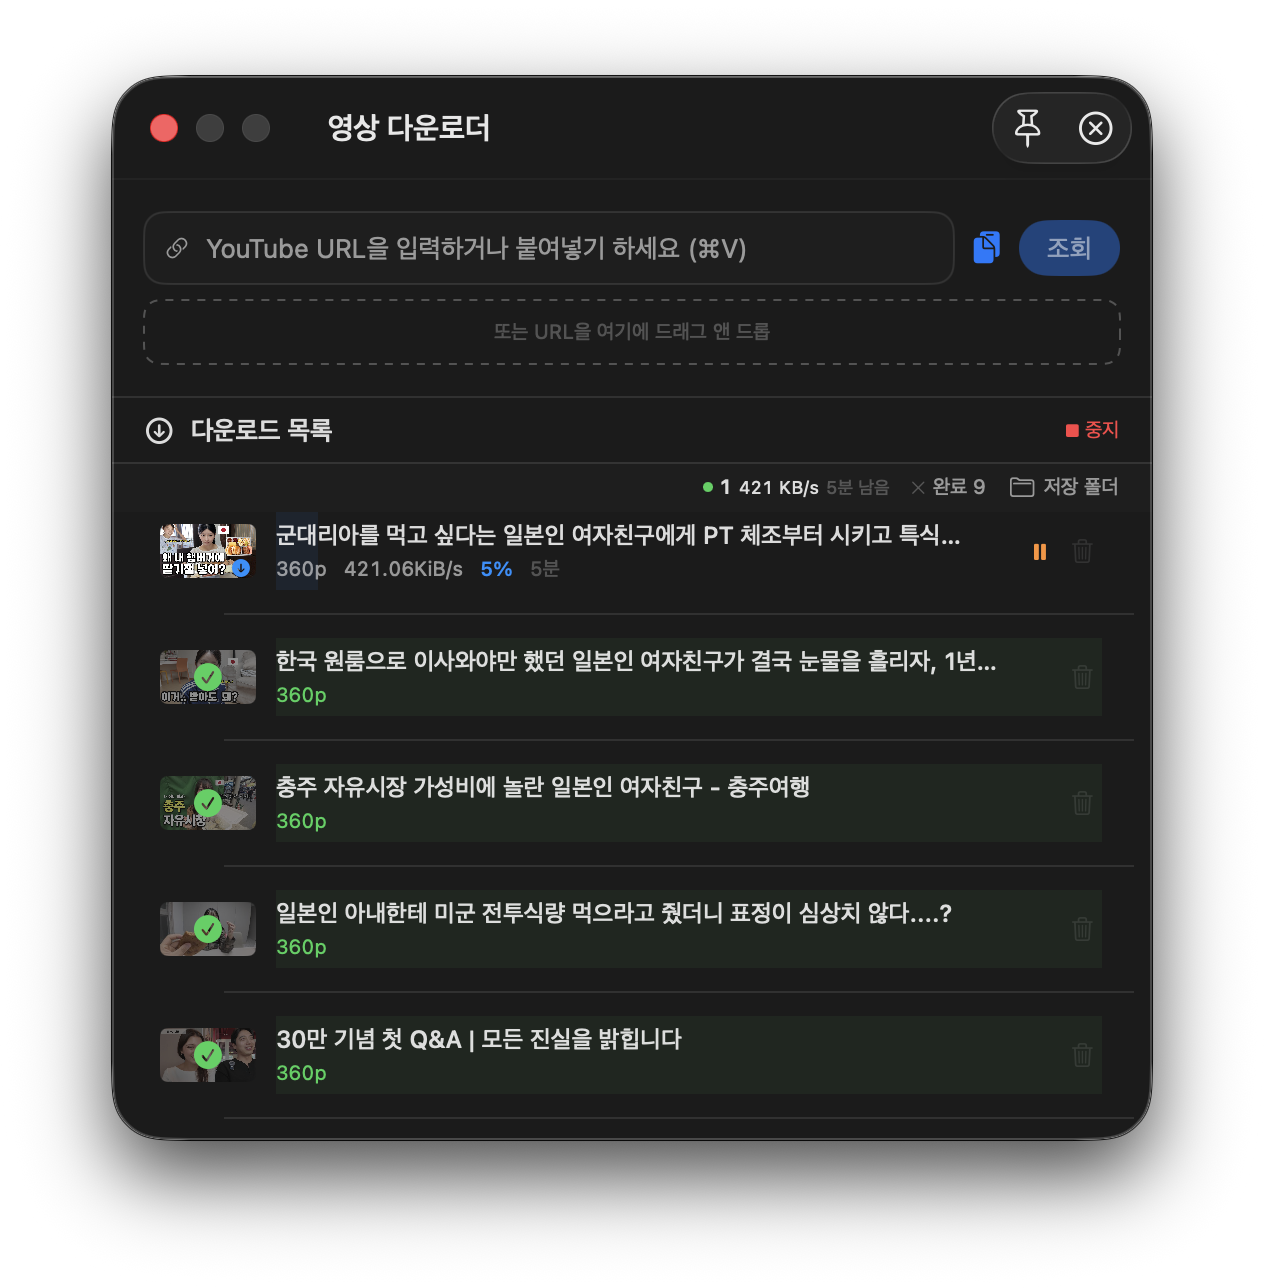
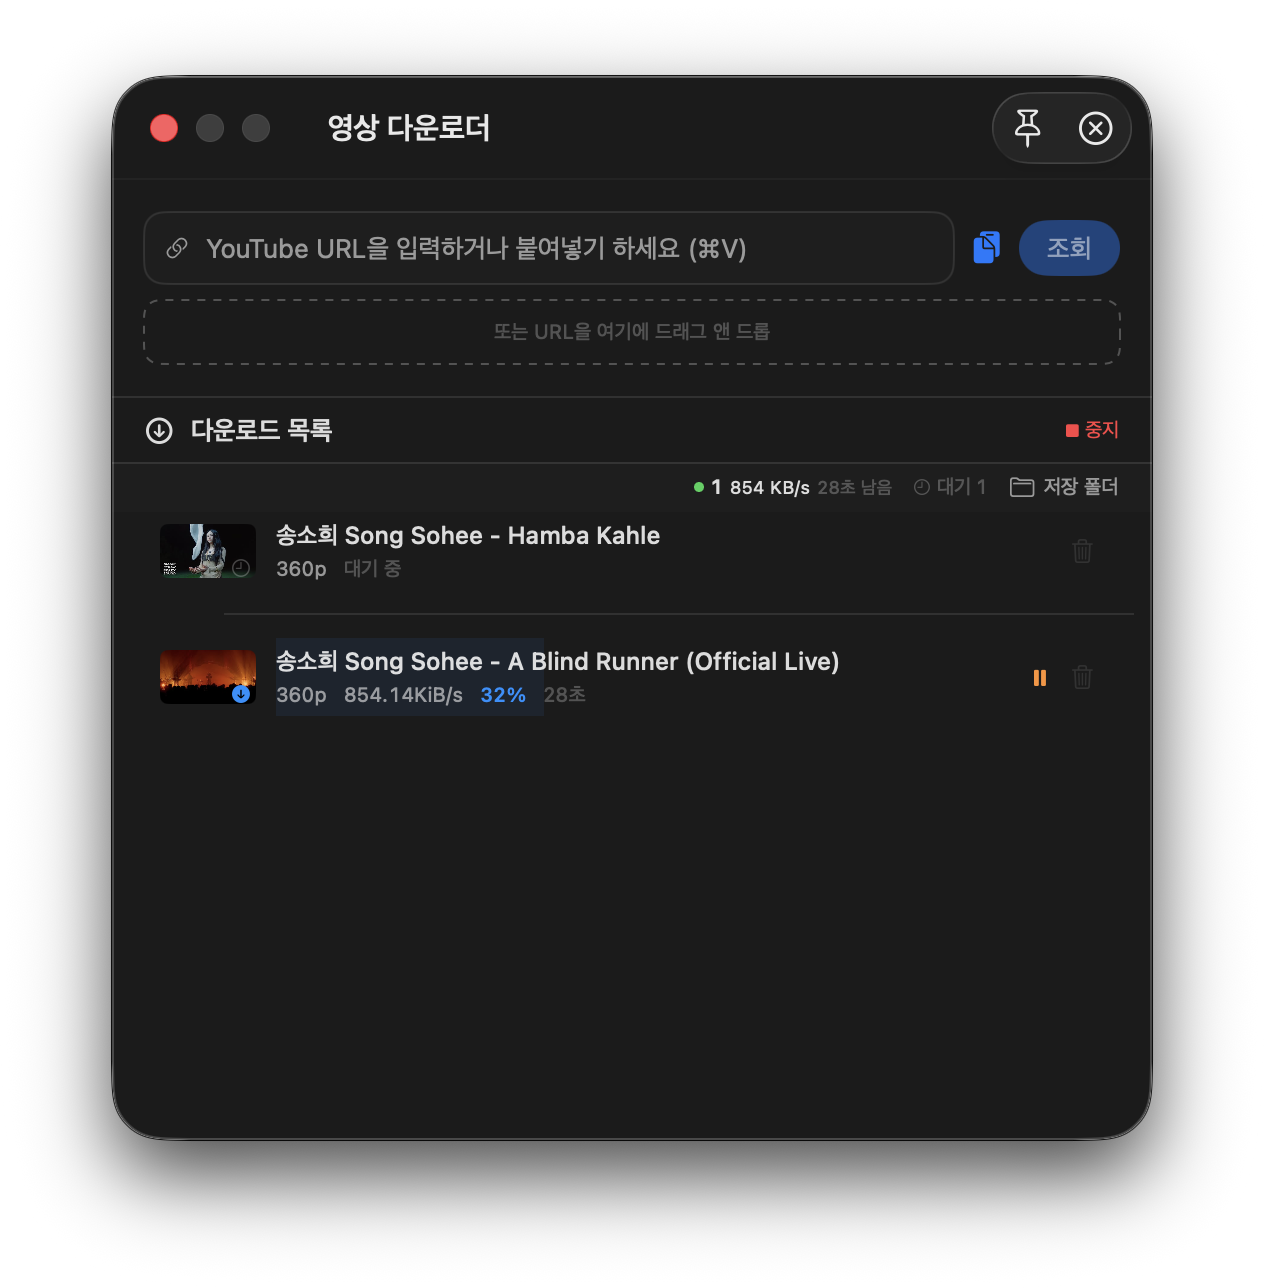
docs: 랜딩 페이지 루트(/docs)로 이동 + 메인/다운로더 이미지 교체
- docs/web → docs 루트로 이동 (GitHub Pages 루트 https://borasarang.github.io/TubeKeep/)
- 이미지 경로 ../screenshots/app → screenshots/app 상대 경로 정리
- docs/screenshots/app/main.png, downloader.png 새 캡처로 교체

diff --git a/docs/index.html b/docs/index.html
@@ -31,7 +31,7 @@
 
 <!-- SCREENSHOT HERO -->
 <section class="showcase">
-  <img src="../screenshots/app/main.png" alt="TubeKeep 메인 화면" class="showcase-img">
+  <img src="screenshots/app/main.png" alt="TubeKeep 메인 화면" class="showcase-img">
 </section>
 
 <!-- FEATURES -->
@@ -70,11 +70,11 @@
   <h2 class="section-title">직접 보면 더 좋습니다</h2>
   <div class="gallery-grid">
     <figure class="shot">
-      <img src="../screenshots/app/downloader.png" alt="영상 다운로더 화면">
+      <img src="screenshots/app/downloader.png" alt="영상 다운로더 화면">
       <figcaption>영상 다운로더 — URL / QR / 형식 / 진행 큐</figcaption>
     </figure>
     <figure class="shot">
-      <img src="../screenshots/app/player.png" alt="플레이어 화면">
+      <img src="screenshots/app/player.png" alt="플레이어 화면">
       <figcaption>자체 플레이어 — H.264 · 자막 · 이어보기</figcaption>
     </figure>
   </div>
